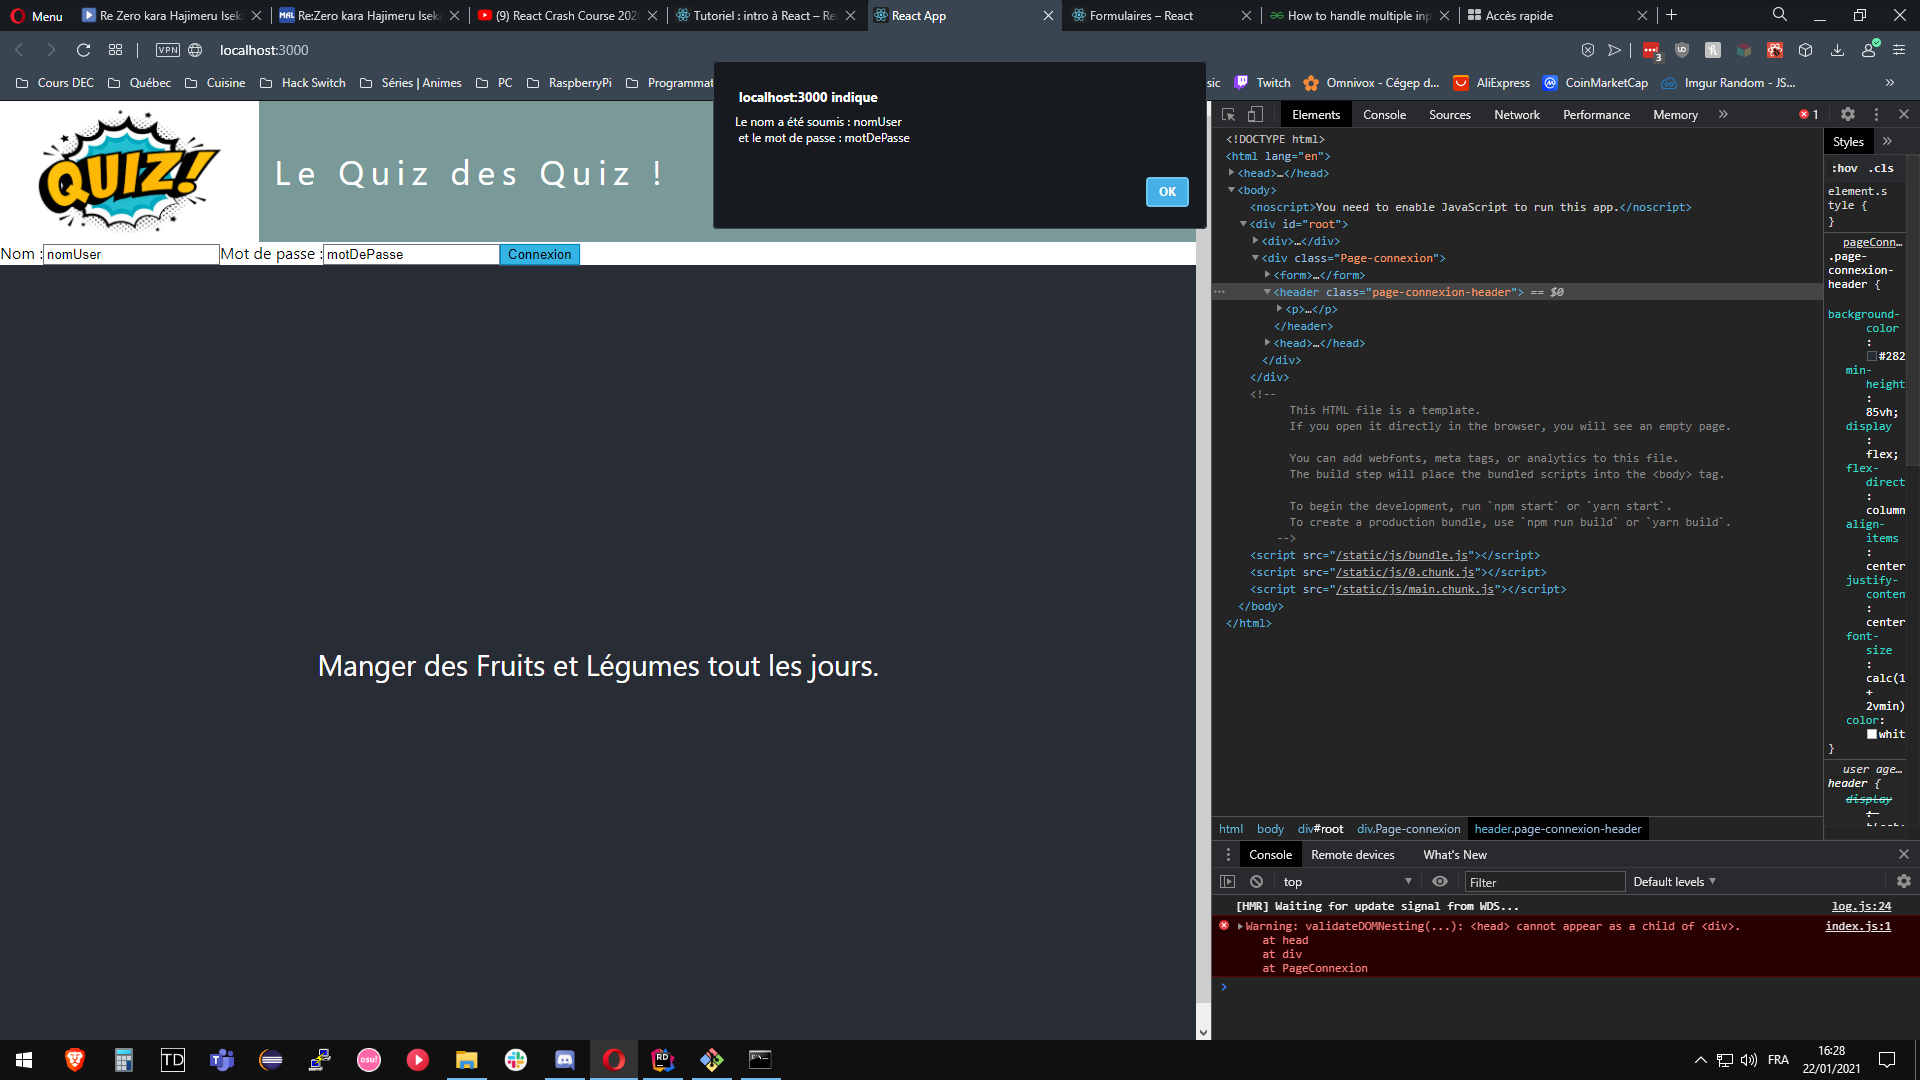
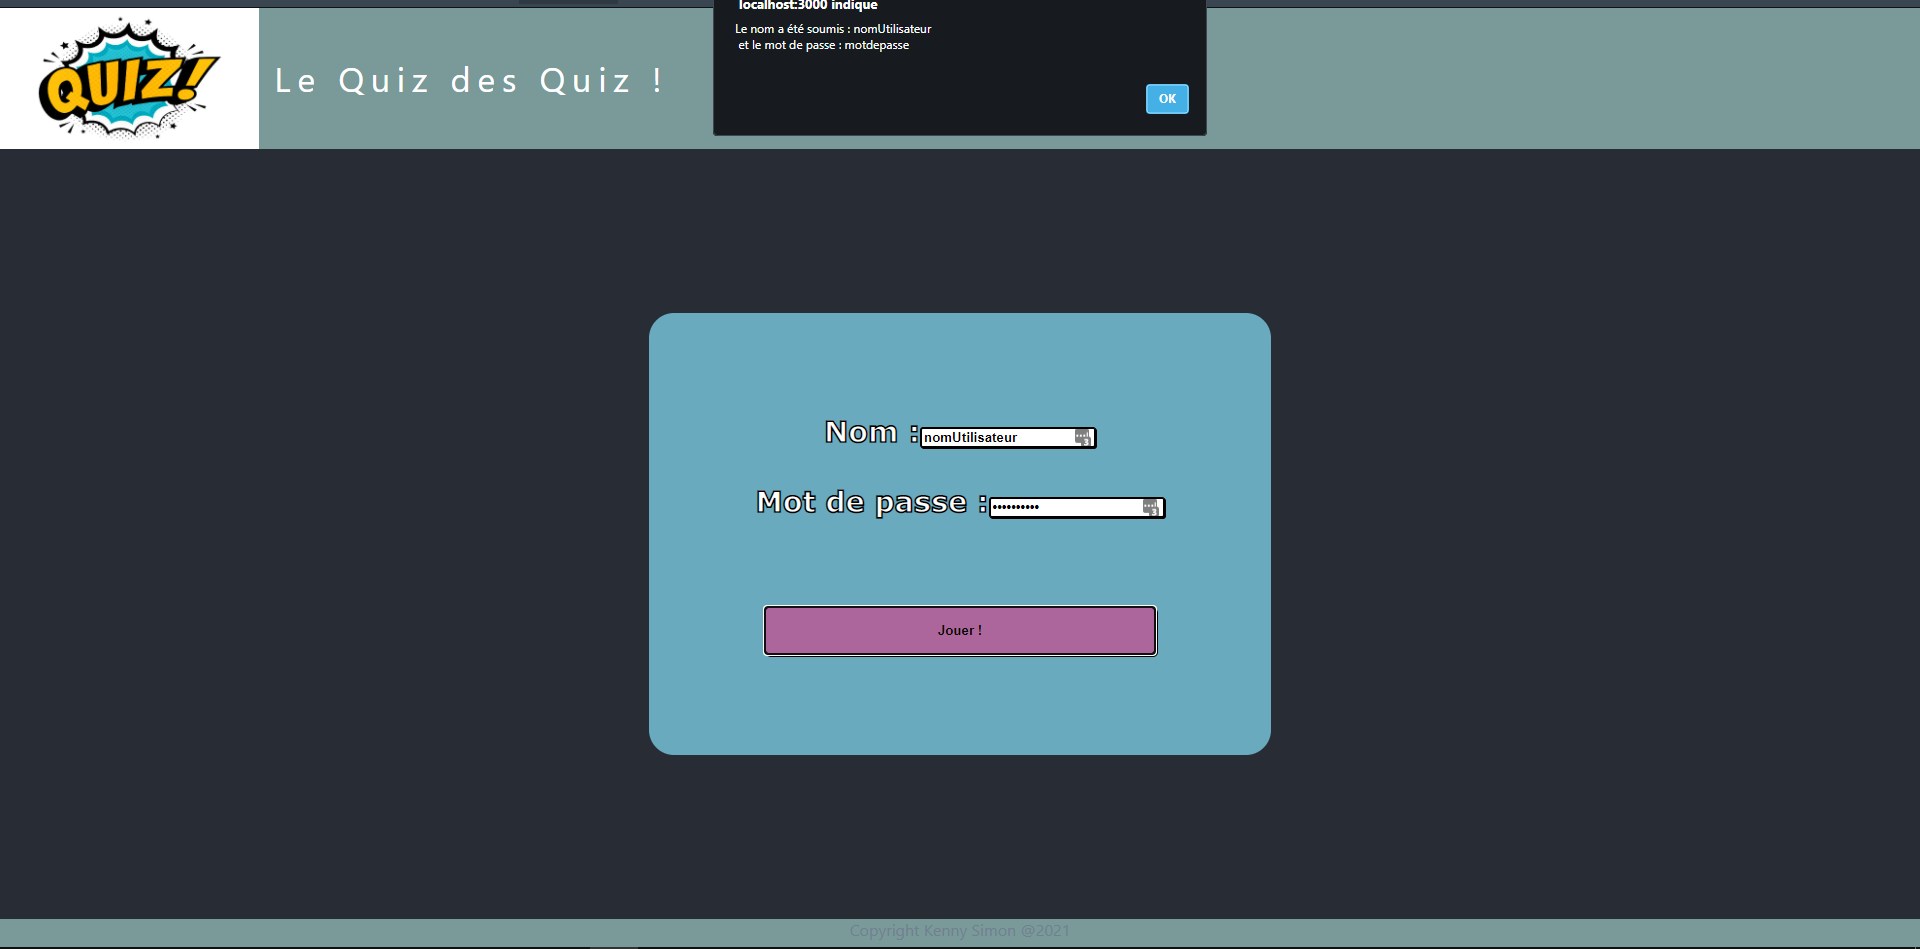
update du CSS vue Connection #WIP

diff --git a/poc/Page_connexion/quiz/src/pageConnexion.css b/poc/Page_connexion/quiz/src/pageConnexion.css
@@ -14,7 +14,6 @@
     color: white;
     display:flex;
     flex-direction: row;
-    vertical-align: center;
 }
 .page-connexion-titre {
     justify-content: center;
@@ -26,17 +25,38 @@
 }
 .page-connexion-formulaire {
     display: flex;
+    font-family: Verdana, sans-serif;
     flex-direction: column;
 }
 .page-connexion-formulaire label{
 
-    align-items: flex-start;
+
+    font-weight: bold;
+    -webkit-text-stroke: 1.7px black;
     justify-content: center;
  
+}
+.page-connexion-formulaire-aremplir{
+    border-color: black;
+    box-shadow: 1px 1px;
+    border-radius: 3px;
+}
+.page-connexion-formulaire-bouton {
+    padding-top: 15px;
+    padding-bottom: 15px;
+    margin-top: 4em;
+    margin-left: 15px;
+    margin-right: 15px;
+    background-color: #ad669c;
+    border-color: black;
+    box-shadow: 2px 2px;
+    border-radius: 5px;
 }
 .page-connexion-formulaire input {
 
     align-items: flex-end;
+    font-weight: bold;
+    -webkit-text-stroke-width: 0px;
     justify-content: center;
 }
 .page-connexion-body {
@@ -56,8 +76,9 @@
     min-height: 3vh;
 }
 .box-decoration {
-    background: #468FAB;
-    padding: 25px;
+    background: #69aabf;
+    border-radius: 25px;
+    padding: 100px;
     min-height: 25vh;
     min-width: 45vh;
 }   

diff --git a/poc/Page_connexion/quiz/src/components/Formulaire.js b/poc/Page_connexion/quiz/src/components/Formulaire.js
@@ -32,6 +32,7 @@ class Formulaire extends React.Component {
                         name="nomUtilisateur"
                         value={this.state.nomUtilisateur}
                         onChange={this.handleChange}
+                        className="page-connexion-formulaire-aremplir"
                     />
                 </label><br/>
                 <label>
@@ -42,9 +43,10 @@ class Formulaire extends React.Component {
                         value={this.state.motDePasse}
                         onChange={this.handleChange}
                         type = "password"
+                        className="page-connexion-formulaire-aremplir"
                     />
                 </label><br/>
-                <input type="submit" value="Connexion" />
+                <input type="submit" value="Jouer !" className="page-connexion-formulaire-bouton"/>
             </form>
         );
     }
